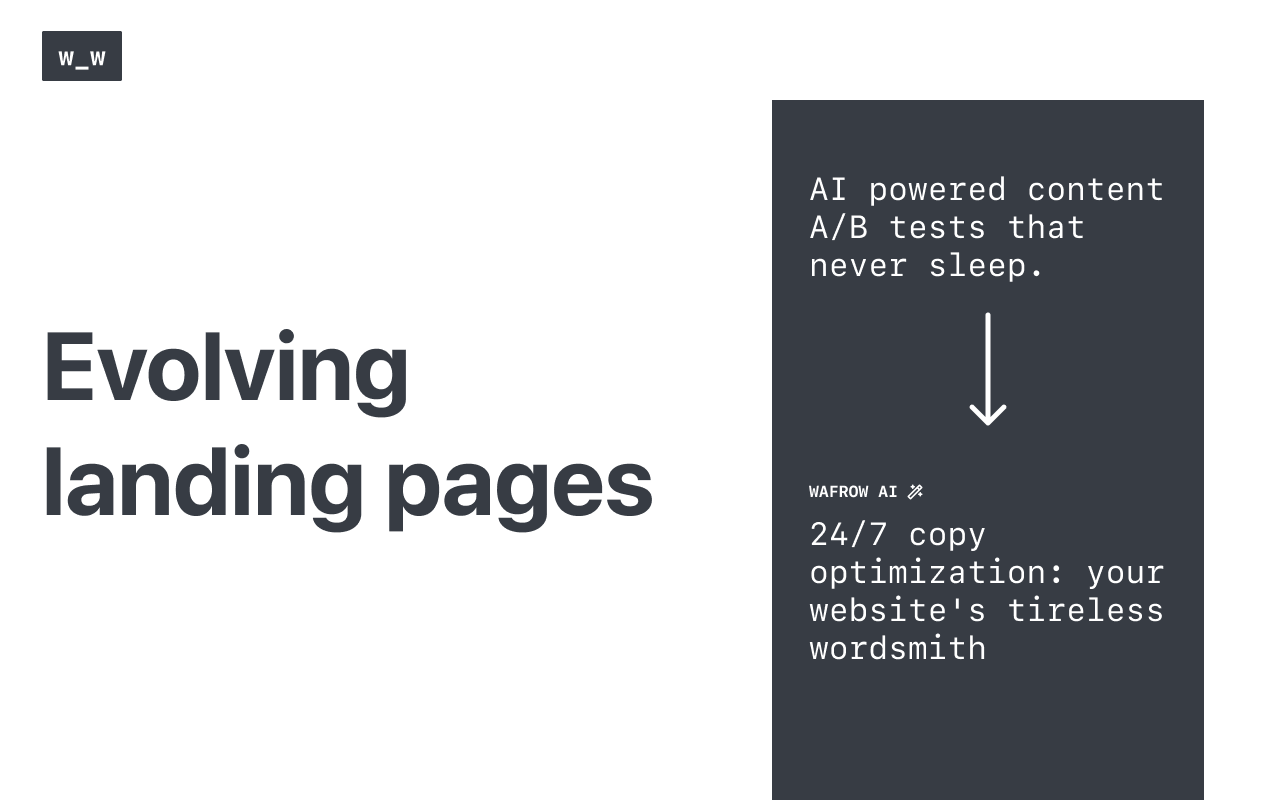
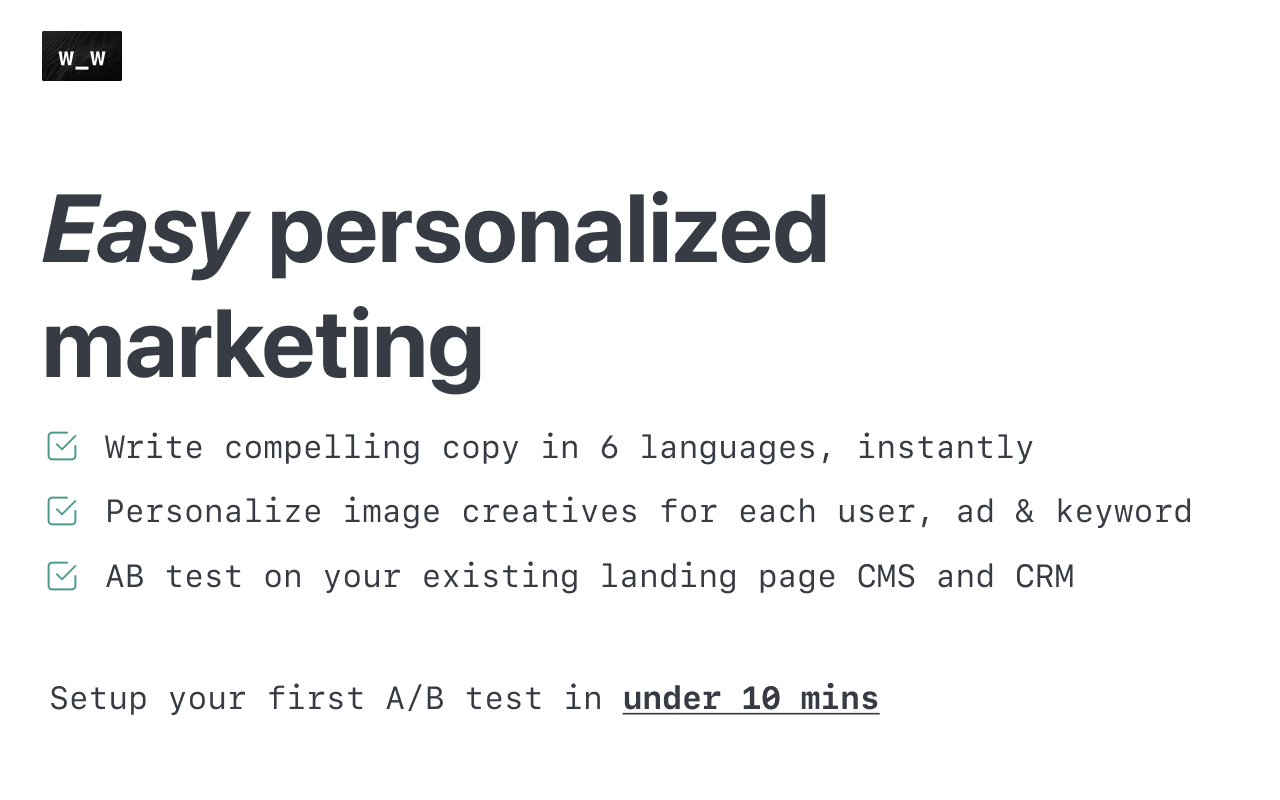
Update readme

diff --git a/readme.md b/readme.md
@@ -2,10 +2,12 @@
 
 ![Chrome store screenshot](./images/Main.png)
 
-## Wafrow is an AI copywriter continuously AB testing landing pages
-Small firms operating in multiple languages struggle to write great copy in all languages. Wafrow is trained on the best ecommerce sites in english, Deutsch, العربية, français, español and Nederlands to continuously increase the last bip of conversion rate, while you sleep.
+## Wafrow makes personalized marketing easy.
+- Write compelling copy in 6 languages, instantly
+- Personalize image creatives for each user, ad and keyword
+- AB test on your existing landing page CMS and CRM
 
-## Wafrow chrome extension is used to configure new experiments
-The chrome extension helps admin users select elements on their website which they'd like to experiment on, create variants, set rollout conditions and launch new experiments
+## Use the wafrow chrome extension to configure your first AB test in under 10 mins
+The chrome extension helps admin users select elements on their website which they'd like to experiment on, create variants, set rollout conditions and launch new experiments.
 
-Given how much we benefit from open source, we're committed to giving back and this is our first contribution to the cause. We'll keep adding more of our repositories to this soon.
+This includes both personalized copy and banner images. More at [wafrow documentation](https://wafrow.com/documentation)
